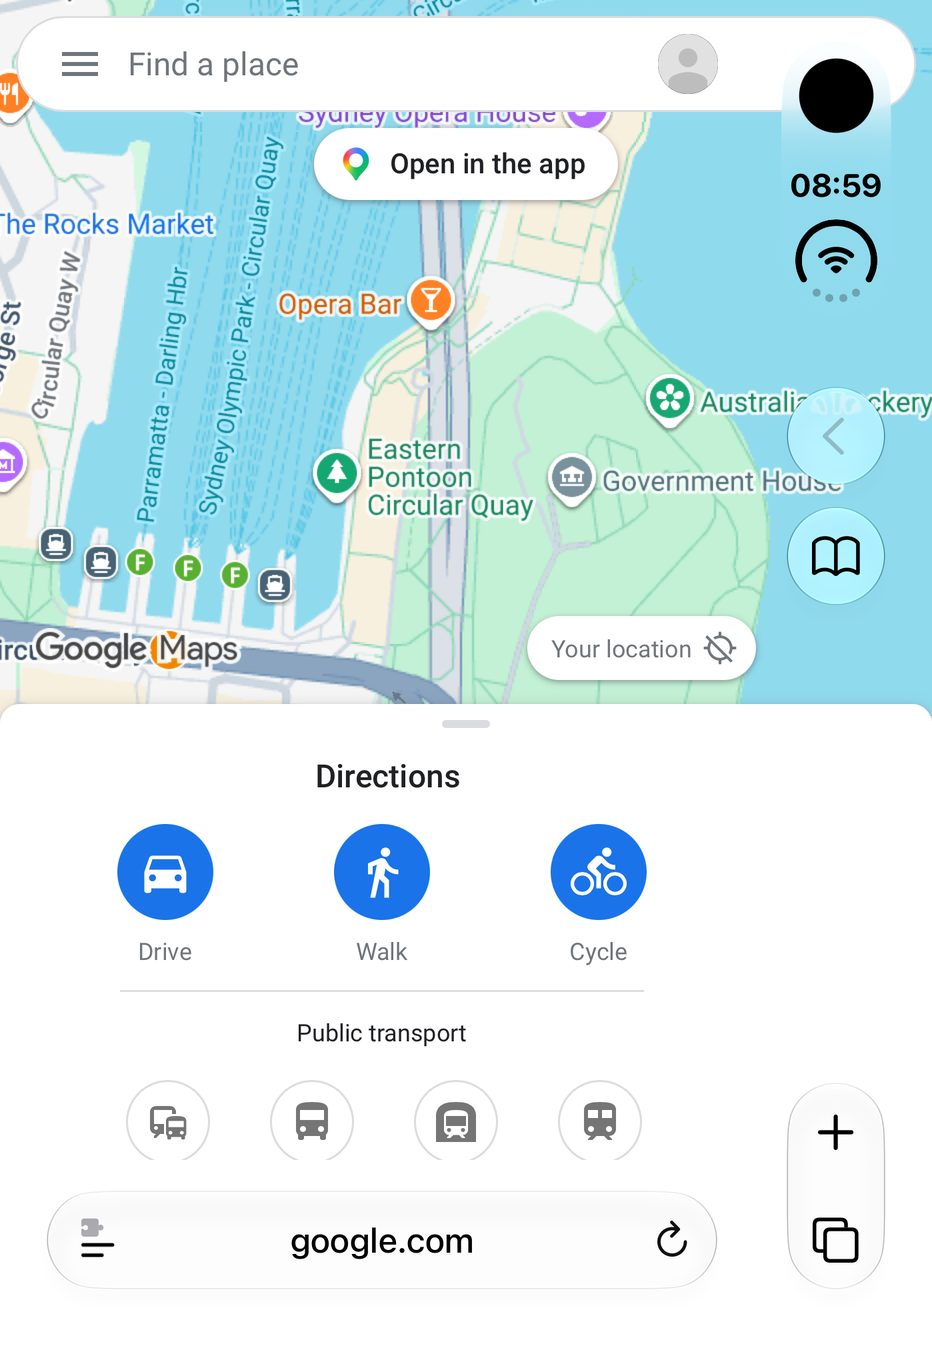
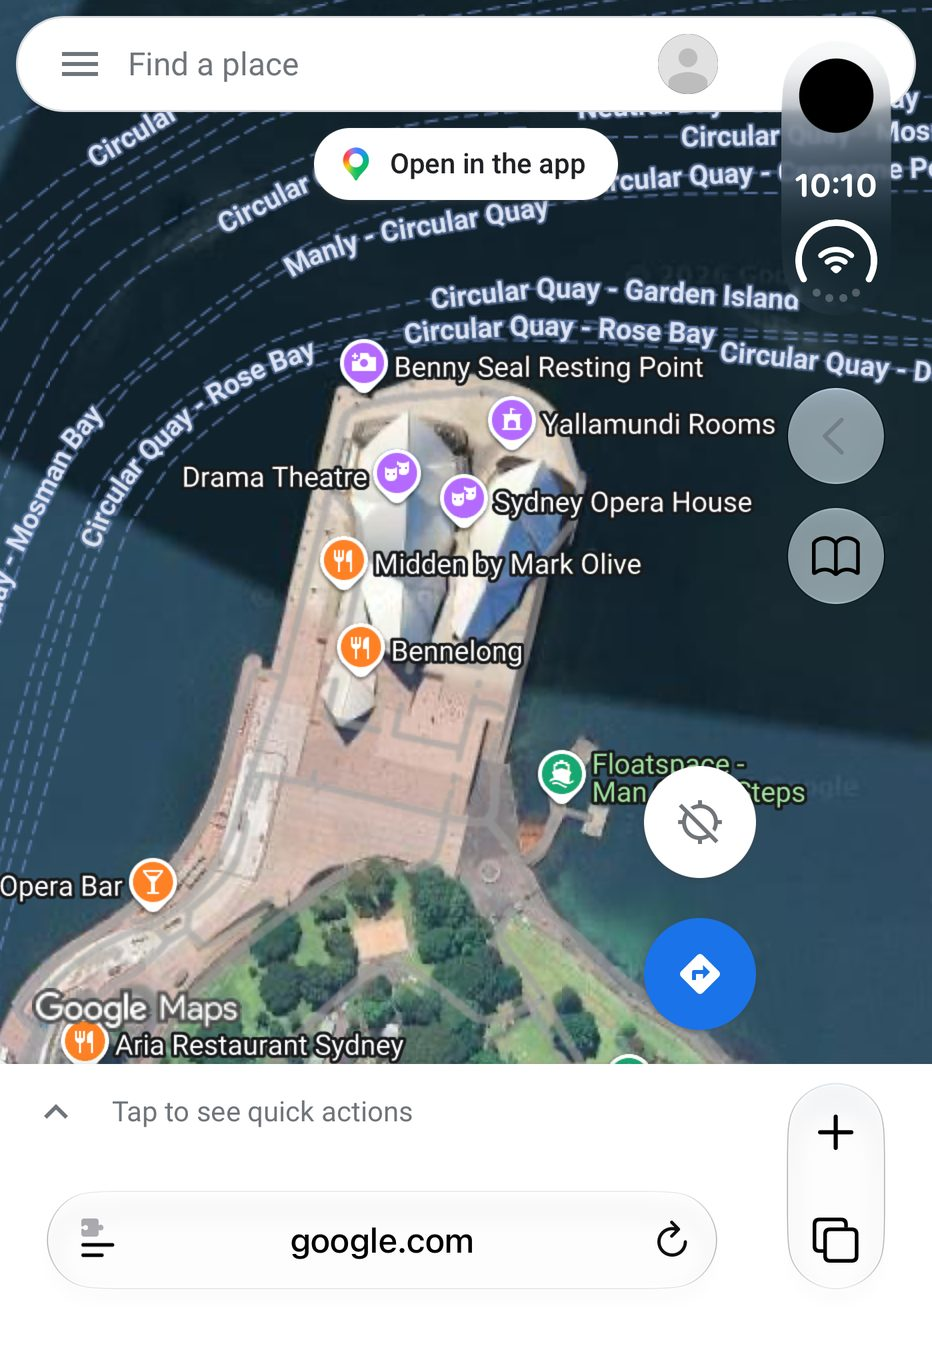
All shots at 10:10; Wikipedia in Pictures & text; Opera House satellite for Google Maps

diff --git a/index.html b/index.html
@@ -49,11 +49,11 @@
         <div class="slide" data-site="Wikipedia">
           <div class="flip-pics">
             <img class="pic-before" src="img/before.jpg" width="932" height="1356" alt="Wikipedia's iPhone Duo article in Safari on the closed Duo, without Widen: the page stops well short of Safari's buttons, leaving an empty band">
-            <img class="pic-after" src="img/after.jpg" width="932" height="1356" alt="The same article with Widen: the info box fills the full width and the text runs up to Safari's buttons">
+            <img class="pic-after" src="img/after.jpg" width="932" height="1356" alt="The same article with Widen in Pictures &amp; text mode: the article text and info box run the full width of the display">
           </div>
           <p class="slide-cap"><b>Wikipedia</b>
             <span class="cap-before">The page stops short; the band by the buttons is empty.</span>
-            <span class="cap-after">The box fills the width; the text runs up to the buttons.</span></p>
+            <span class="cap-after">In <strong>Pictures &amp; text</strong>, the article runs the full width.</span></p>
         </div>
         <div class="slide" data-site="The New York Times">
           <div class="flip-pics">
@@ -66,8 +66,8 @@
         </div>
         <div class="slide" data-site="Google Maps">
           <div class="flip-pics">
-            <img class="pic-before" src="img/maps-before.jpg" width="932" height="1356" loading="lazy" alt="Google Maps of Sydney Harbour on the closed Duo, without Widen: the map ends at Safari's buttons">
-            <img class="pic-after" src="img/maps-after.jpg" width="932" height="1356" loading="lazy" alt="The same map with Widen: it fills the whole display, under Safari's buttons">
+            <img class="pic-before" src="img/maps-before.jpg" width="932" height="1356" loading="lazy" alt="Google Maps satellite view of the Sydney Opera House on the closed Duo, without Widen: the map ends at Safari's buttons">
+            <img class="pic-after" src="img/maps-after.jpg" width="932" height="1356" loading="lazy" alt="The same satellite view with Widen: the Opera House and harbour fill the whole display, under Safari's buttons">
           </div>
           <p class="slide-cap"><b>Google Maps</b>
             <span class="cap-before">The map ends where the buttons begin.</span>
